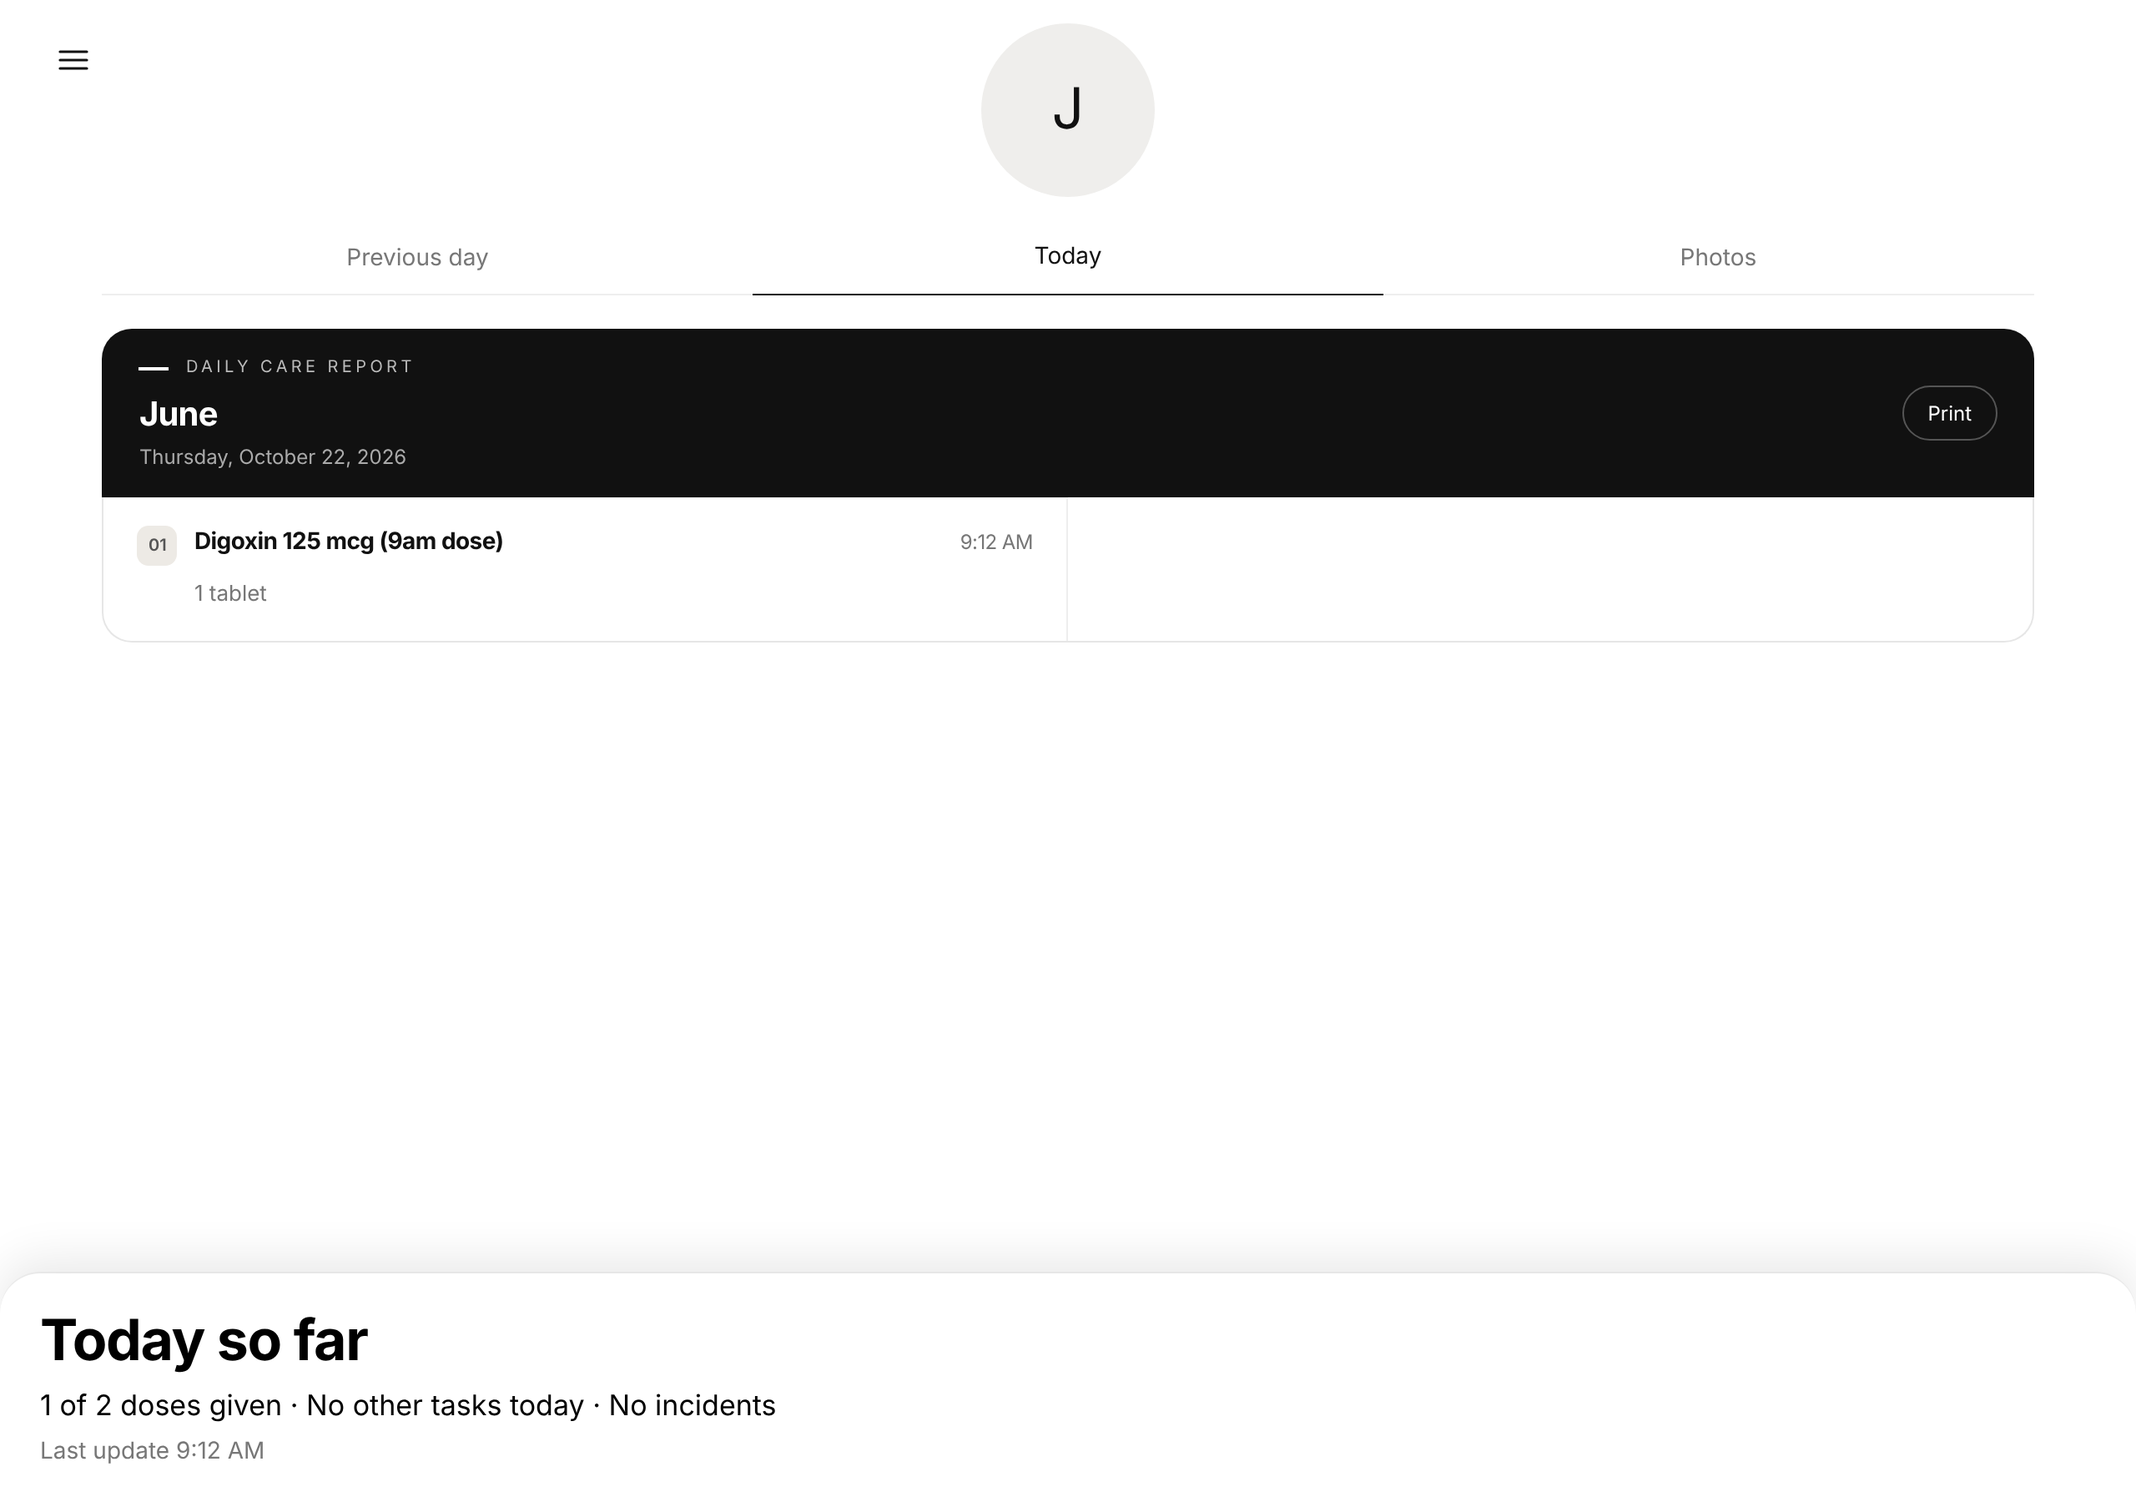
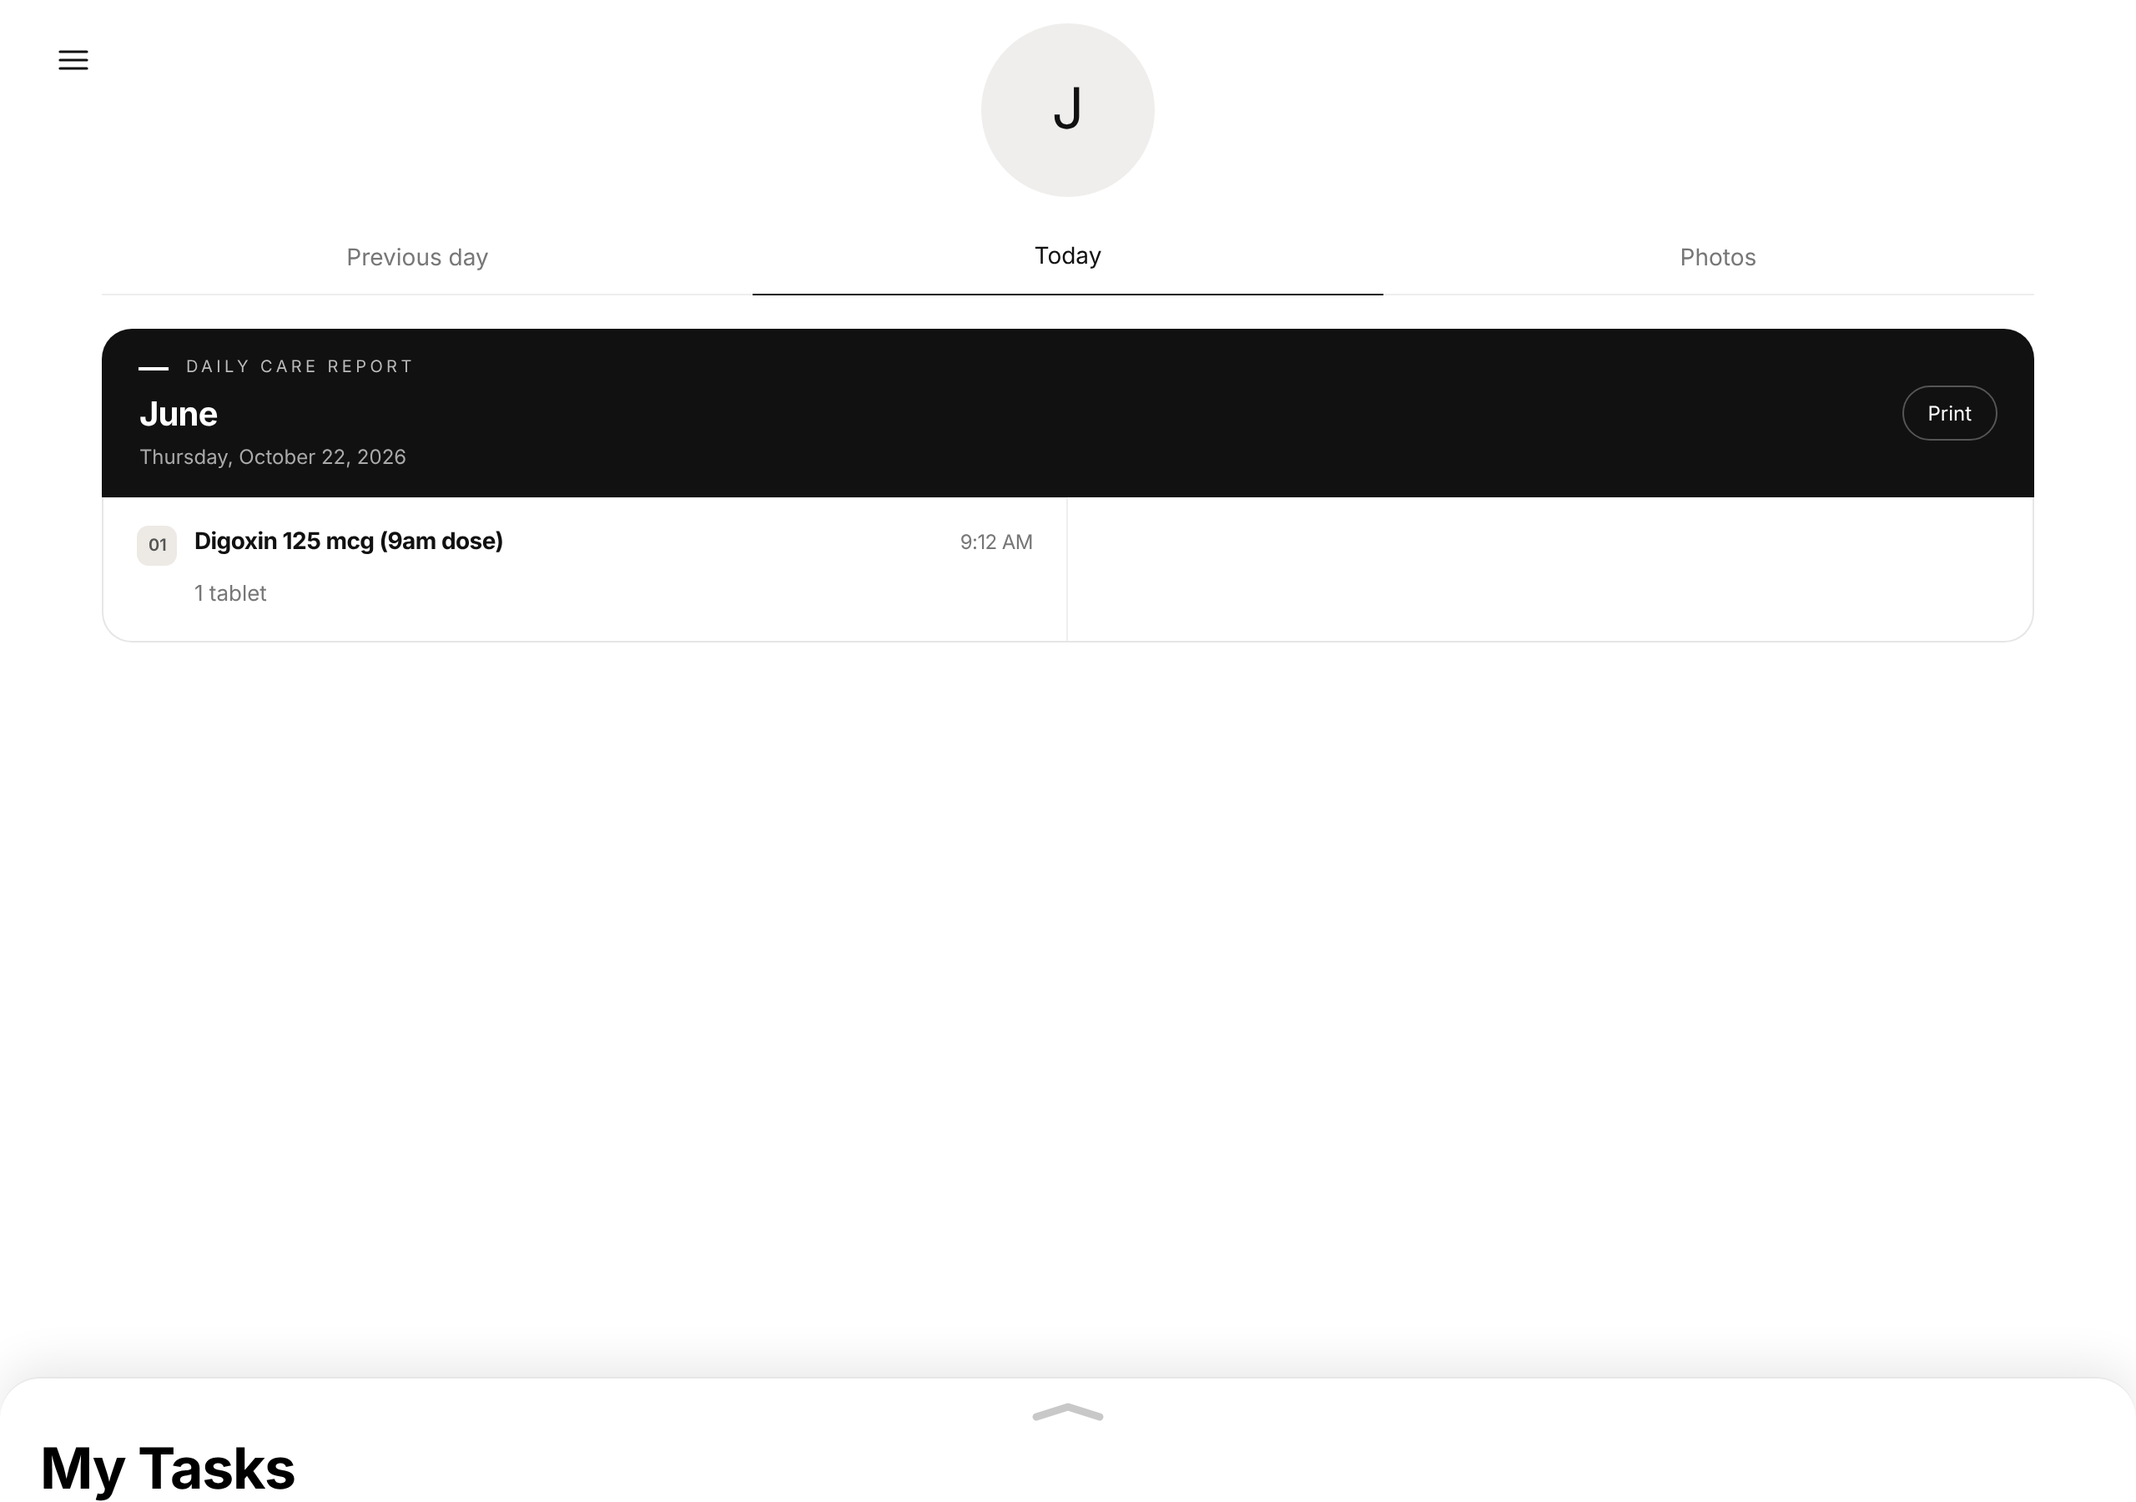
Step 4: keep My Tasks the same on every dashboard
George's call: a family viewer gets the same Home and the same My Tasks
sheet (done count and line), not a separate Today so far. Viewers can open
My Tasks and see every task, but tapping a task or a vital sign does
nothing. Takes out viewer.js and updates step 4 in the plan.

Claude-Session: https://claude.ai/code/session_01DtzVUe47FFRmHJkUaXHnEv

Changed region(s): [[0.0, 0.8711, 0.3438, 1.0]]

diff --git a/app.html b/app.html
@@ -3,7 +3,7 @@
 <dialog id="purchase-dialog" class="purchase-modal"><form id="purchase-form"><div class="modal-header"><div><span class="eyebrow">A LITTLE FUTURE YOU FAVOR</span><h2>Add a purchase</h2></div><button type="button" class="icon-button close-modal" aria-label="Close purchase form">×</button></div><p class="modal-intro">Bought it? Give it a place to come back to.</p><div class="form-grid"><label class="wide">Item name<input name="name" required maxlength="100" placeholder="That dress for the weekend"></label><label>Retailer<input name="retailer" required maxlength="80" placeholder="e.g. Fashion Nova" id="retailer-input"></label><label>Price paid ($)<input name="price" required type="number" min="0" max="100000" step="0.01" placeholder="49.99"></label><label>Purchased where?<select name="channel"><option value="online">Online</option><option value="store">In store</option></select></label><label>Category<select name="category"><option value="dress">Clothing</option><option value="shoe">Shoes</option><option value="bag">Bags & accessories</option><option value="box">Other</option></select></label><label>Purchase date<input name="purchased" type="date" required></label><label>Delivery date <span class="optional">if received</span><input name="delivered" type="date"></label></div>
 <section class="policy-assistant"><div class="section-label"><span data-icon="spark"></span><strong>Policy check</strong><span class="tiny-label">Reference + your confirmation</span></div><p id="policy-message">Fashion Nova has a researched reference. For other retailers, check the official policy and enter its terms below.</p><button type="button" id="load-policy" class="outline-button">Load Fashion Nova reference ↗</button><div id="policy-reference" hidden><p><strong>30 days from delivery · Store credit</strong></p><p>Start in the return portal within 30 days. Item must be unworn, unwashed, with tags. Final-sale exclusions apply; standard online orders cannot be returned in store.</p><a href="https://www.fashionnova.com/pages/return-policy" target="_blank" rel="noopener">Read official policy ↗</a><small>Reference checked October 8, 2026. Recheck your receipt, region, item and portal eligibility.</small></div></section>
 <div class="form-grid"><label>Return window (days)<input name="window" required type="number" min="1" max="365" value="30"></label><label>Window starts from<select name="basis"><option value="delivery">Delivery date</option><option value="purchase">Purchase date</option></select></label><label>Return outcome<select name="outcome"><option value="unknown">Not confirmed yet</option><option value="credit">Store credit</option><option value="refund">Original payment refund</option><option value="exchange">Exchange only</option><option value="final">Final sale / not eligible</option></select></label><label>Deadline requires<select name="requirement"><option value="unknown">Needs confirmation</option><option value="start">Start return</option><option value="ship">Ship / postmark</option><option value="arrive">Retailer receives item</option><option value="store">Return at store</option></select></label><label class="wide">Official policy or return portal URL <span class="optional">optional</span><input name="url" type="url" placeholder="https://retailer.com/returns"></label><label class="wide">Next small step<input name="next" maxlength="150" placeholder="Try it on while the tags are still attached"></label></div><label class="check-label"><input name="confirmed" type="checkbox"> I checked the policy and this item’s eligibility.</label><p class="form-note">We’ll suggest acting 3 days early. Estimated dates need your confirmation; shipping and store hours may require more time.</p><p class="form-error" id="form-error" role="alert"></p><div class="modal-footer"><button type="button" class="text-button close-modal">Cancel</button><button type="submit" class="primary">Save purchase <span data-icon="arrow"></span></button></div></form></dialog>
-<dialog id="detail-dialog" class="detail-modal"><div id="detail-content"></div></dialog><dialog id="guide-dialog"><button class="icon-button close-modal floating-close" aria-label="Close guide">×</button><span class="eyebrow">THE FIRST VERSION</span><h2>A nudge, then a next step.</h2><ol class="guide-list"><li><strong>Add it when you buy it.</strong> Save the item, price, retailer and purchase or delivery date.</li><li><strong>Confirm what comes back.</strong> Review the official policy, exclusions, fees and the deadline’s meaning.</li><li><strong>Act a little early.</strong> Start with a small task. Keep the countdown visible.</li><li><strong>Close the loop.</strong> Track a return in progress separately from money or credit actually received.</li></ol><div class="honesty-note">Purchases are saved to your Adltrack account. Fashion Nova’s policy is a researched reference; receipts are read when you scan them; stores we don’t have are looked up online and marked unverified. Calendar exports offer an immediate reminder option.</div><button class="primary close-modal">Got it</button></dialog><div id="toast" role="status" aria-live="polite"></div><script src="account.js"></script><script src="core.js"></script><script src="nudge.js"></script><script src="app.js"></script><script src="features.js"></script><script src="klarna.js"></script><script src="precision.js"></script><script src="guided.js"></script><script src="home.js"></script><script src="schedule.js"></script><script src="refills.js"></script><script src="menu.js"></script><script src="push.js"></script><script src="remind.js"></script><script src="today.js"></script><script src="report.js"></script><script src="viewer.js"></script><script src="team.js"></script><script src="patients.js"></script><script src="can.js"></script></body></html>
+<dialog id="detail-dialog" class="detail-modal"><div id="detail-content"></div></dialog><dialog id="guide-dialog"><button class="icon-button close-modal floating-close" aria-label="Close guide">×</button><span class="eyebrow">THE FIRST VERSION</span><h2>A nudge, then a next step.</h2><ol class="guide-list"><li><strong>Add it when you buy it.</strong> Save the item, price, retailer and purchase or delivery date.</li><li><strong>Confirm what comes back.</strong> Review the official policy, exclusions, fees and the deadline’s meaning.</li><li><strong>Act a little early.</strong> Start with a small task. Keep the countdown visible.</li><li><strong>Close the loop.</strong> Track a return in progress separately from money or credit actually received.</li></ol><div class="honesty-note">Purchases are saved to your Adltrack account. Fashion Nova’s policy is a researched reference; receipts are read when you scan them; stores we don’t have are looked up online and marked unverified. Calendar exports offer an immediate reminder option.</div><button class="primary close-modal">Got it</button></dialog><div id="toast" role="status" aria-live="polite"></div><script src="account.js"></script><script src="core.js"></script><script src="nudge.js"></script><script src="app.js"></script><script src="features.js"></script><script src="klarna.js"></script><script src="precision.js"></script><script src="guided.js"></script><script src="home.js"></script><script src="schedule.js"></script><script src="refills.js"></script><script src="menu.js"></script><script src="push.js"></script><script src="remind.js"></script><script src="today.js"></script><script src="report.js"></script><script src="team.js"></script><script src="patients.js"></script><script src="can.js"></script></body></html>
 
 
 

diff --git a/can.js b/can.js
@@ -1,16 +1,19 @@
 /* Permissions on screen: what a person can't do isn't offered (the server refuses it anyway, see server/permissions.js).
-   Everyone sees only what the admins allow: family viewers get no My Tasks sheet and nothing that changes the plan. Without
-   My Tasks there's no sheet and no Taken or Skipped; without the medications tick there's no Add discharge papers +, Confirm,
+   Everyone sees only what the admins allow: family viewers see My Tasks but can't mark anything, and nothing that changes the plan. Without
+   My Tasks there's no Taken or Skipped; without the medications tick there's no Add discharge papers +, Confirm,
    or the controls that edit a medication, a visit, the profile or the reminder settings. Runs after every page is drawn. */
 function applyPermissions(){const main=$('#main');if(!main)return;
 const drop=sel=>main.querySelectorAll(sel).forEach(n=>n.remove()),off=sel=>main.querySelectorAll(sel).forEach(n=>{n.disabled=true});
-if(!mayDo('tasks'))drop('#tasks-sheet,[data-med-dose]');
+if(!mayDo('tasks'))drop('[data-med-dose]');
 if(!mayDo('care')){drop('[data-med-done],[data-med-picked],[data-med-refill]');off('[data-appt-step]')}
 if(!mayDo('meds')){drop('[data-add],[data-return],#add-appointment,[data-appt-remove],.pick-edit:has([data-appt-book]),#appt-form button,#flow-photo-med,.pick-photo-hint,#profile-photo,#profile-photo-remove');
   // The bottle and profile photos stay, but tapping them no longer offers a new one.
   main.querySelectorAll('label[for="flow-photo-med"],label[for="profile-photo"]').forEach(l=>{l.removeAttribute('for');l.removeAttribute('role');l.removeAttribute('tabindex');l.removeAttribute('aria-label')});
   off('[data-dose-time],#reminder-form input,#reminder-form button,#appt-form input,#profile-name-form input,#profile-name-form button')}
 }
+/* My Tasks stays the same on every dashboard: a family viewer sees the same sheet, its done count and line, and today's task
+   cards, but tapping a card or a vital sign opens nothing, so nothing gets marked or saved. */
+document.addEventListener('click',e=>{if(!mayDo('tasks')&&e.target.closest('#tasks-sheet [data-today-start],#tasks-sheet [data-vitals]')){e.preventDefault();e.stopImmediatePropagation()}},true);
 const renderBeforeCan=render;
 render=function(){
   // The Take page and the scan and confirm steps aren't open to people who can't use them.

diff --git a/sw.js b/sw.js
@@ -1,8 +1,8 @@
 /* Adltrack service worker: keeps the app shell for offline starts, shows daily reminders sent by Web Push while the app is
    closed with their action buttons, and opens the item's Return step when one is tapped. Account data (/api/) is never cached here. */
-const SHELL = 'returnly-shell-v17';
+const SHELL = 'returnly-shell-v16';
 const SHELL_FILES = ['app.html', 'index.html', 'signin.html', 'signup.html', 'forgot.html', 'reset.html', 'email.html', 'join.html', 'style.css', 'on.css', 'klarna.css', 'precision.css', 'guided.css', 'home.css', 'menu.css', 'mobile.css', 'landing.css', 'type.css',
-  'core.js', 'nudge.js', 'account.js', 'auth.js', 'app.js', 'features.js', 'klarna.js', 'precision.js', 'guided.js', 'home.js', 'schedule.js', 'refills.js', 'menu.js', 'push.js', 'remind.js', 'today.js', 'report.js', 'viewer.js', 'team.js', 'patients.js', 'can.js', 'landing.js', 'oracle.woff2', 'assets/roboto-serif-light.woff2', 'assets/inter-var.woff2',
+  'core.js', 'nudge.js', 'account.js', 'auth.js', 'app.js', 'features.js', 'klarna.js', 'precision.js', 'guided.js', 'home.js', 'schedule.js', 'refills.js', 'menu.js', 'push.js', 'remind.js', 'today.js', 'report.js', 'team.js', 'patients.js', 'can.js', 'landing.js', 'oracle.woff2', 'assets/roboto-serif-light.woff2', 'assets/inter-var.woff2',
   'manifest.webmanifest', 'assets/icon-192.png', 'assets/icon-512.png', 'assets/apple-touch-icon.png'];
 
 self.addEventListener('install', event => {

diff --git a/home.css b/home.css
@@ -126,14 +126,6 @@
 .tasks-sheet:not(.open):not(.dragging) .tasks-body{visibility:hidden}
 .tasks-body .home-today{margin:0}
 @media(max-width:650px){.tasks-top,.tasks-body{padding-left:20px;padding-right:20px}.tasks-top h2{font-size:30px}.tasks-sheet{height:70px}}
-/* Today so far (viewer.js): for people without My Tasks, the same white sheet in the same place, holding one short line of
-   today's numbers and the last update time. It doesn't pull up. */
-#main:has(.so-far){padding-bottom:150px}
-.tasks-sheet.so-far,.tasks-sheet.so-far.open{height:auto}
-.so-far .tasks-top{cursor:default;touch-action:auto;user-select:text;padding-top:22px;padding-bottom:max(20px,env(safe-area-inset-bottom))}
-.so-far .tasks-top h2{margin:0}
-.so-far-line{margin:10px 0 0;font-size:17px;line-height:1.4;color:#000}
-.so-far-when{margin:4px 0 0;font-size:14px;color:#777}
 /* Daily care report on Home (report.js): three tabs, a small black banner with the name, date and Print, then numbered entries,
    two to a row (an entry with a note takes the full row). Each: number, subhead, time stamp on the right, the note, then details
    in grey. One column on phones. */

diff --git a/docs/care-team-plan.md b/docs/care-team-plan.md
@@ -83,10 +83,10 @@ Admins can change anyone's role at any time (Settings → People → tap their n
 
 ## 4. Family viewer dashboard
 
-**Status:** In review (PR #31). Code: `viewer.js` ("Today so far" in the My Tasks sheet's place, for anyone without My Tasks), its styles in `home.css`.
+**Status:** In review (PR #31). Decided with George on 2026-10-22: My Tasks stays the same on every dashboard. Code: `can.js`.
 **Needs:** steps 2 and 3.
-**Build:** Home for viewers: the same daily care report (Previous day, Today, Photos) in the same place, without the My Tasks sheet. In its place, a short "Today so far" line: doses given of doses due, tasks done, incidents, with the last update time. All menu pages stay, read only. A viewer signed up by more than one family (a grandchild following two grandparents, say) keeps step 3's picker and the switch under the photo, and each family's Home shows only that family's patient.
-**Done when:** a viewer's Home shows the report, photos and "Today so far", with no task buttons anywhere; a viewer on two families switches between them and each shows its own "Today so far".
+**Build:** Home for viewers is the same Home: the daily care report (Previous day, Today, Photos) in the same place, and the same My Tasks sheet with its done count (1/3) and line showing how far the day has gone and what's left. A viewer can open My Tasks and see every task, but tapping a task or a vital sign does nothing, so they can't mark or change anything. All menu pages stay, read only. A viewer signed up by more than one family (a grandchild following two grandparents, say) keeps step 3's picker and the switch under the photo, and each family's Home shows only that family's patient.
+**Done when:** a viewer's Home shows the report, photos and My Tasks exactly as a caregiver's does, with no way to mark a task anywhere; a viewer on two families switches between them and each shows its own My Tasks.
 
 ---
 
